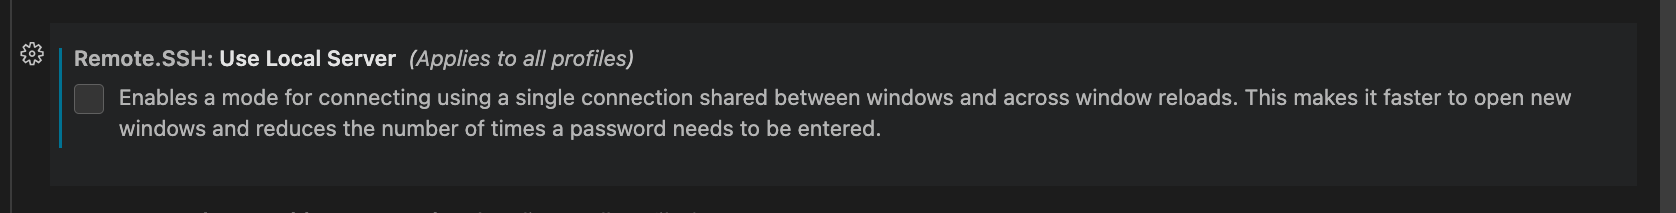
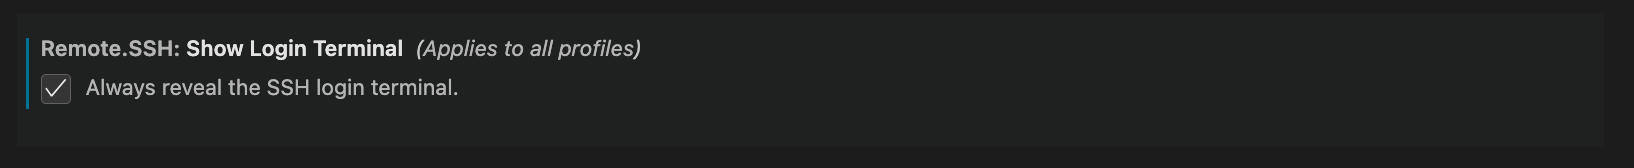
update setup

Changed region(s): [[0.0, 0.3869, 0.9364, 0.6548], [0.9676, 0.0, 1.0, 1.0], [0.0, 0.2083, 0.4058, 0.3571]]

diff --git a/setup.md b/setup.md
@@ -22,8 +22,7 @@ In this course, we advise you to set up the VS Code Remote extension to be used 
 <img src="../assets/images/setup/vscode_setup_3.png" alt="Open SSH config file" width="50%" />
 <img src="../assets/images/setup/vscode_setup_4.png" alt="SSH config file" width="50%" />
 
-3. Copy the following into the file. Replace [UNIQNAME] with your uniqname.
-
+3. Copy the following into the file. Replace `[UNIQNAME]` with your uniqname.
 ```plaintext
 Host oncampus-course.engin.umich.edu
   HostName oncampus-course.engin.umich.edu
@@ -33,19 +32,17 @@ Host oncampus-course.engin.umich.edu
 4. Open the Command Pallette by pressing ctrl/cmd + shift + p. Search "Remote" and open the Remote-SSH: Settings.<br>
 <img src="../assets/images/setup/vscode_setup_5.png" alt="Command Palette" width="50%" />
 
-5. Scroll down towards the bottom of the settings and ensure that the **Use Local Server** option is toggled **off**.<br>
-<img src="../assets/images/setup/vscode_setup_6.png" alt="Use Local Server" width="75%" />
+5. Scroll down towards the bottom of the settings and ensure that the **Show Login Terminal** is toggled **on** and the **Use Local Server** option is toggled **off**.<br>
+<img src="../assets/images/setup/vscode_setup_6.png" alt="Show Login Terminal" width="75%" />
+<img src="../assets/images/setup/vscode_setup_7.png" alt="Use Local Server" width="75%" />
 
 6. Close out of the Command Palette and navigate back to the Remote Explorer window. You can choose to open the remote window in the current VS Code window (arrow icon) or a new window (folder icon). Select one. <br>
-<img src="../assets/images/setup/vscode_setup_7.png" alt="VS Code Remote Select" width="50%" />
+<img src="../assets/images/setup/vscode_setup_8.png" alt="VS Code Remote Select" width="50%" />
 
-7. VS Code will prompt you to enter your password. After, a prompt will appear where you can select to see more **detail**. Expand the window and click on **detail**.<br>
-<img src="../assets/images/setup/vscode_setup_8.png" alt="open Detail" width="50%" />
-
-8. You should see a prompt to use DUO two factor authentication. Choose an option and authenticate with your device.<br>
+7. You should see a prompt for your password and two factor authentication. Enter your password and choose an option to authenticate with your device.<br>
 <img src="../assets/images/setup/vscode_setup_9.png" alt="DUO" width="50%" />
 
-9. If successful, VS Code should now connect to the CAEN Linux Remote Login Server. You can choose to open a folder and navigate through the directory. When selecting a folder, VS Code may prompt you again for your password and two factor authentication. Follow steps 7 and 8 if this occurs.
+8. If successful, VS Code should now connect to the CAEN Linux Remote Login Server. You can choose to open a folder and navigate through the directory. When selecting a folder, VS Code may prompt you again for your password and TFA. Follow steps 7 and 8 if this occurs.
 
 ## MBot Setup
 
